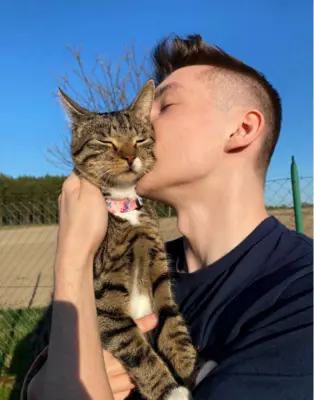
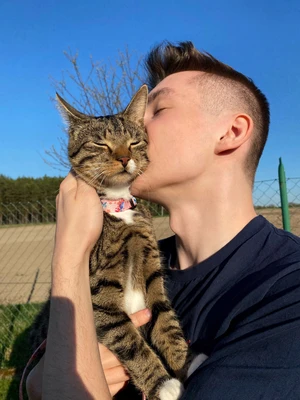
Update author image and add more underscores to about me section

diff --git a/components/about.tsx b/components/about.tsx
@@ -42,12 +42,14 @@ export default function About() {
             </svg>
           </button>
         </div>
-        <div className="lg:h-[400px] lg:w-[314px] h-[300px] w-[236px] min-h-[300px] min-w-[236px]">
+        <div className="lg:h-[400px] lg:w-[300px] h-[300px] w-[236px] min-h-[300px] min-w-[236px]">
           <Image
             src={profilePic}
             height={400}
+            quality="85"
             alt="Picture of the portfolio author"
             className="shadow-[24px_24px_rgb(36,229,102)]"
+            priority
           />
         </div>
       </div>
